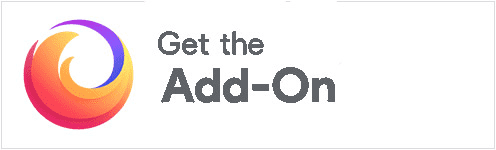
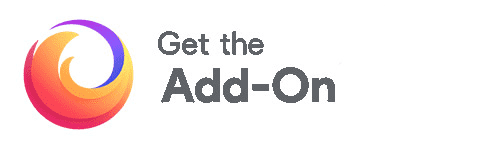
qol changes

Changed region(s): [[0.0, 0.9867, 0.998, 1.0], [0.6653, 0.0, 0.998, 0.0267], [0.0, 0.0, 0.3024, 0.0267]]

diff --git a/index.html b/index.html
@@ -100,7 +100,7 @@
           </div>
           <div data-delay="1.5s" class="hero-btn pointy mt-3 text-center wow fadeIn store-listing">
             <a href="https://addons.mozilla.org/en-US/firefox/addon/snoozz/">
-              <img src="./img/moz.jpg">
+              <img src="./img/moz.png">
             </a>
           </div>
         </div>
@@ -126,7 +126,7 @@
     </div>
     <div class="col-md-6 col-12 py-md-4 py-3 px-md-5 px-0">
       <h4 class="text-center">Keyboard Shortcuts</h4>
-      <p class="text-center px-md-5">Too lazy to click? Set up your own key bindings.</p>
+      <p class="text-center px-md-5">Too lazy to click? Set up your own key combinations.</p>
       <div class="pt-md-4 mx-auto text-center">
         <img class="img-feature other shadow img-fluid wow fadeIn" src="./img/keyboard.gif">
       </div>
@@ -149,7 +149,7 @@
     <div class="col-md-6 col-12 py-md-4 py-3 px-md-5 px-0">
       <div class="my-4 py-4 col-md-6 d-md-block d-none">&nbsp;</div>
       <h4 class="text-center">Notifications</h4>
-      <p class="text-center px-md-5">Native notifications when tabs and windows wake up.</p>
+      <p class="text-center px-md-5">Get Native notifications when tabs and windows wake up.</p>
       <div class="pt-md-4 mx-auto text-center">
         <img class="img-notification img-fluid py-4 wow fadeInRight" data-delay=".5s" src="./img/mac-notification.png">
         <img class="img-notification img-fluid py-4 wow fadeInRight" data-delay="1s" src="./img/win-notification.jpg">

diff --git a/privacy.html b/privacy.html
@@ -71,7 +71,7 @@
     <h4>notifications</h4>
     <p>Send you notifications when a tab is reopened. (Can be turned off through your system preferences)</p>
     <h4>tabs</h4>
-    <p class="mb-1">Used to fetch <strong>only</strong>** the metadata from your tabs (title, url, favicon).</p>
+    <p class="mb-1">Used to fetch <strong>only</strong> the metadata from your tabs (title, url, favicon).</p>
     <p>No metadata is passively recorded - it is only saved when users perform a specific action to snooze a tab or window.</p>
     <h4>storage</h4>
     <p class="mb-1">Used to store snoozed tabs and windows.</p>
